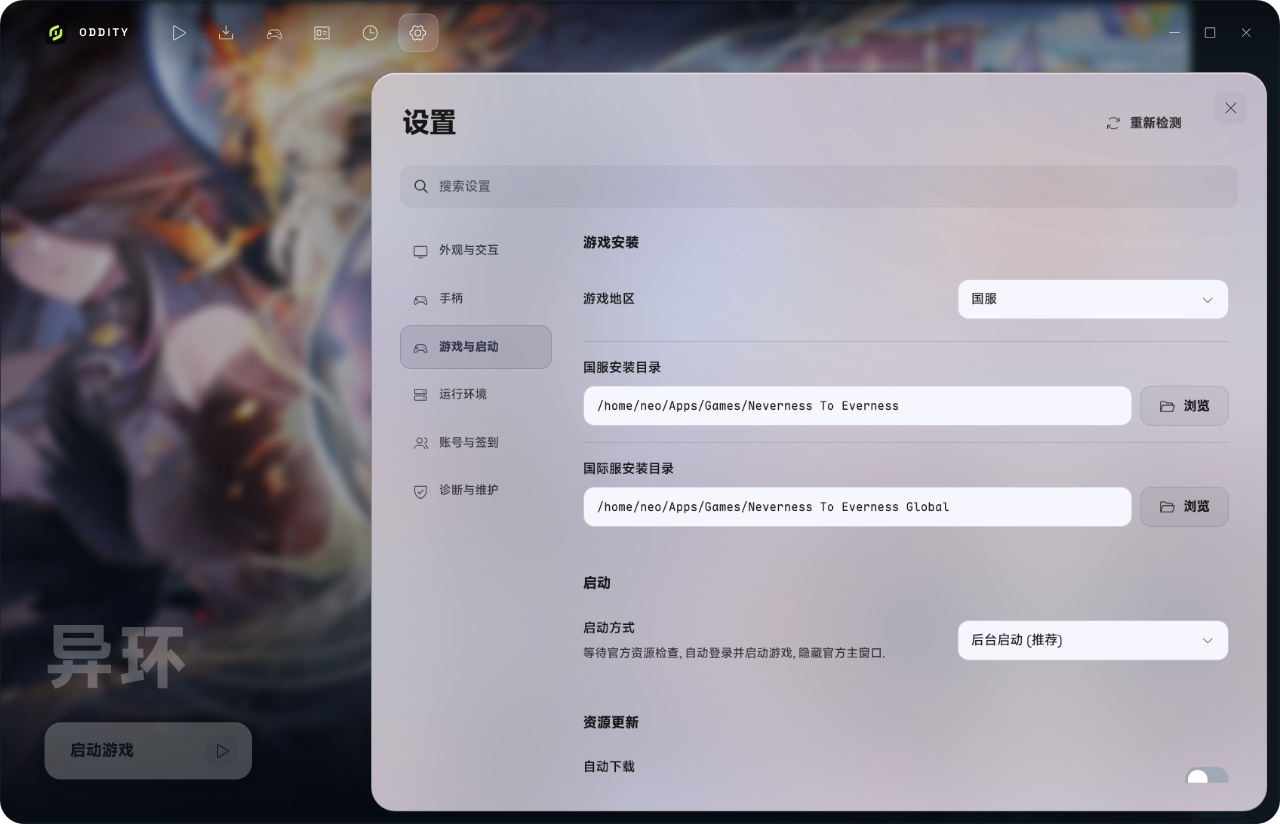
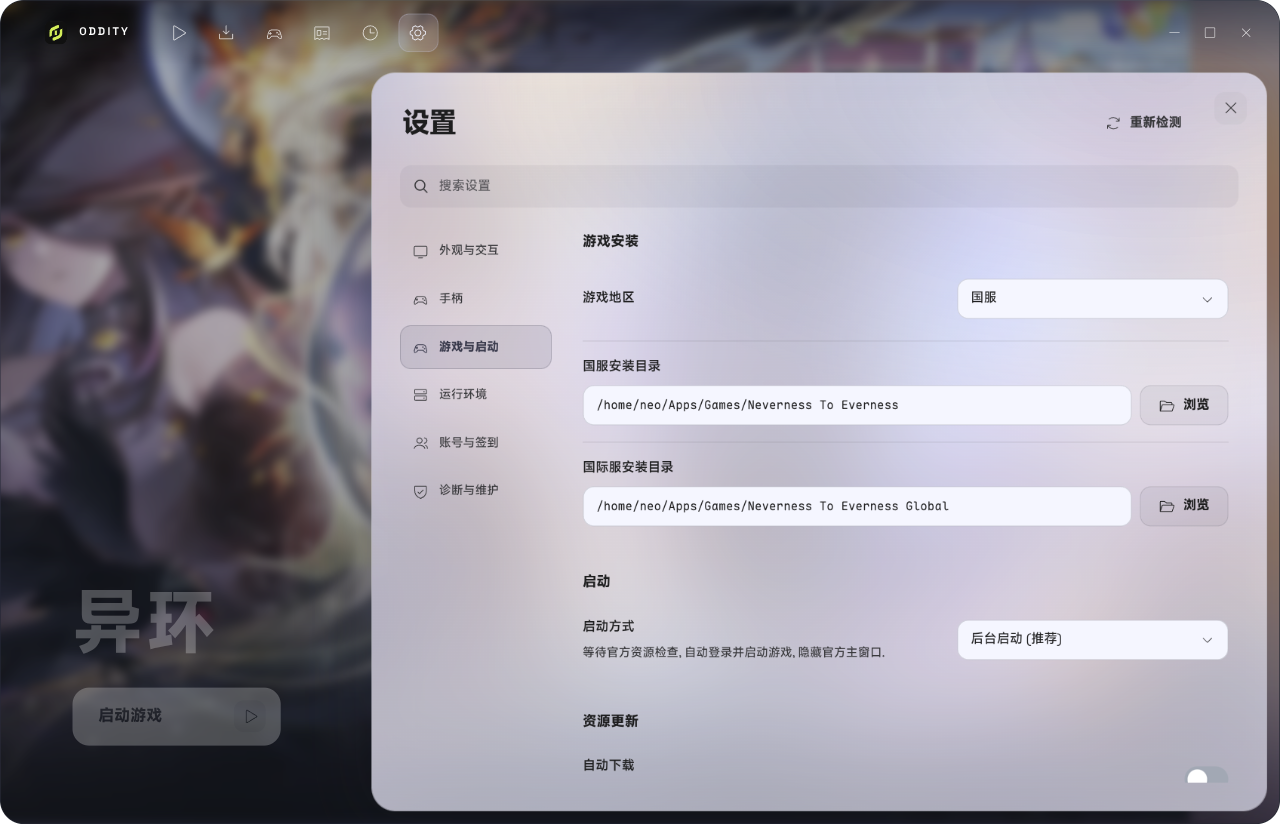
ui: 启动组件外移并让状态提示平滑显隐 (#142)
* ui: 启动组件外移并让状态提示平滑显隐

* fix(ui): 固定状态提示槽位高度

* docs: 重截界面实机截图

六张 README 与文档截图在本机官方客户端环境下按新布局重截, 背景使用官方客户端主视觉, 保持浅色主题, 手机号沿用文档中的示例号码.

---------

diff --git a/launcher/ui/src/pages/HomePage.vue b/launcher/ui/src/pages/HomePage.vue
@@ -23,6 +23,12 @@ const reduced = computed(() => form.reduceMotion || prefersReduced.value);
 const gameName = computed(() =>
   state.bootstrap?.settings.distribution === "global" ? "NTE" : "异环",
 );
+// 状态行始终占位, 避免提示显隐时把标题和启动按钮一起顶动.
+const statusVisible = computed(
+  () =>
+    state.game !== "launching" &&
+    (homeDownloadNotice.value.visible || updateView.value.showHomeStatus),
+);
 
 // 文案切换沿用 GamepadHints 的 Anime.js 编排: 先模糊退出, 再换字。
 const label = computed(() => launchView.value.label);
@@ -165,28 +171,31 @@ function handleMainLaunchClick() {
               </AnimatePresence>
             </div>
           </div>
-          <button
-            class="hero__status"
-            id="home-status"
-            @click="showPage('update')"
-            type="button"
-            :hidden="
-              state.game === 'launching' ||
-              (!homeDownloadNotice.visible && !updateView.showHomeStatus)
-            "
-            :data-state="
-              homeDownloadNotice.visible
-                ? homeDownloadNotice.kind
-                : updateView.homeStatusKind
-            "
+          <div
+            class="hero__status-slot"
+            :class="{ 'is-visible': statusVisible }"
           >
-            <i class="status-dot status-dot--warn"></i>
-            <span id="home-status-text">{{
-              homeDownloadNotice.visible
-                ? homeDownloadNotice.text
-                : updateView.homeStatusText
-            }}</span>
-          </button>
+            <button
+              class="hero__status"
+              id="home-status"
+              @click="showPage('update')"
+              type="button"
+              :tabindex="statusVisible ? undefined : -1"
+              :aria-hidden="!statusVisible || undefined"
+              :data-state="
+                homeDownloadNotice.visible
+                  ? homeDownloadNotice.kind
+                  : updateView.homeStatusKind
+              "
+            >
+              <i class="status-dot status-dot--warn"></i>
+              <span id="home-status-text">{{
+                homeDownloadNotice.visible
+                  ? homeDownloadNotice.text
+                  : updateView.homeStatusText
+              }}</span>
+            </button>
+          </div>
         </motion.div>
       </div>
     </div>

diff --git a/launcher/ui/src/styles/hero.css b/launcher/ui/src/styles/hero.css
@@ -40,9 +40,10 @@
   background: linear-gradient(0deg, rgb(5 10 16 / 65%), transparent 45%);
 }
 .hero__content {
+  --hero-content-shift: clamp(20px, 2.2vw, 32px);
   position: absolute;
   bottom: var(--scene-inset);
-  left: var(--scene-inset);
+  left: calc(var(--scene-inset) + var(--hero-content-shift));
   display: flex;
   flex-direction: column;
   align-items: flex-start;
@@ -128,24 +129,59 @@
   width: 22px;
   height: 22px;
 }
+.hero__status-slot {
+  display: flex;
+  align-items: flex-start;
+  height: calc(16px + 1.55em);
+  padding-top: 16px;
+  font-size: 12px;
+}
+/* 窄面板下最长文案会换行, 预留两行高度, 避免底部内容被顶动. */
+@media (width < 480px) {
+  .hero__status-slot {
+    height: calc(16px + 3.1em);
+  }
+}
 .hero__status {
   display: inline-flex;
   align-items: center;
   gap: 9px;
-  margin-top: 16px;
   max-width: 100%;
   text-align: left;
   font-size: 12px;
   color: rgb(255 255 255 / 88%);
+  opacity: 0;
+  visibility: hidden;
+  transform: translateY(4px);
+  transition:
+    opacity 160ms ease-out,
+    transform 160ms ease-out,
+    visibility 0s linear 160ms;
 }
-.hero__status[hidden] {
-  display: none;
+.hero__status-slot.is-visible .hero__status {
+  opacity: 1;
+  visibility: visible;
+  transform: translateY(0);
+  transition:
+    opacity 160ms ease-out,
+    transform 160ms ease-out,
+    visibility 0s;
 }
 .hero__status[data-state="error"] {
   color: #ffd0c9;
 }
 .hero__status .status-dot {
   background: currentColor;
+}
+@media (prefers-reduced-motion: reduce) {
+  .hero__status,
+  .hero__status-slot.is-visible .hero__status {
+    transition: none;
+  }
+}
+.reduce-motion .hero__status,
+.reduce-motion .hero__status-slot.is-visible .hero__status {
+  transition: none;
 }
 .eyebrow {
   display: flex;

diff --git a/launcher/ui/tests/e2e/update.spec.ts b/launcher/ui/tests/e2e/update.spec.ts
@@ -7,8 +7,10 @@ test("更新摘要、暂停继续与窄面板布局", async ({ page }) => {
   const update = page.locator("#page-update");
   const primary = page.locator("#game-download-primary");
   const budget = update.locator(".disk-budget");
+  const homeStatus = page.locator("#home-status");
   await expect(primary).toHaveText("检查通过");
   await expect(budget).toHaveCount(0);
+  await expect(homeStatus).toHaveCSS("visibility", "hidden");
   await update.getByRole("button", { name: "完整校验", exact: true }).click();
   await expect(primary).toHaveText("更新游戏");
   await expect(update.locator("progress")).toHaveCount(0);
@@ -21,6 +23,9 @@ test("更新摘要、暂停继续与窄面板布局", async ({ page }) => {
   await expect(
     update.getByRole("heading", { name: "下载已暂停" }),
   ).toBeVisible();
+  await expect(homeStatus).toHaveCSS("visibility", "visible");
+  await expect(homeStatus).toHaveCSS("opacity", "1");
+  await expect(homeStatus).toContainText("下载已暂停, 打开更新页继续");
   await expect(primary).toHaveText("继续更新游戏");
   await expect(update.locator("progress")).toHaveCount(1);
   await expect(update.locator("#download-install-root")).toBeEnabled();

diff --git a/launcher/ui/tests/unit/controller.test.ts b/launcher/ui/tests/unit/controller.test.ts
@@ -1132,6 +1132,32 @@ describe("更新检查", () => {
     expect(c.launchView.value.label).toBe("启动游戏");
   });
 
+  it("首页启动提示在固定槽位内显隐", async () => {
+    await boot();
+    const slot = wrapper!.find(".hero__status-slot");
+    backend.downloadHandler({
+      ...backend.downloadStatus,
+      mode: "check",
+      phase: "cancelled",
+    });
+    await nextTick();
+    expect(slot.classes()).toContain("is-visible");
+    expect(wrapper!.find("#home-status").attributes("aria-hidden")).toBe(
+      undefined,
+    );
+    expect(text("home-status-text")).toBe("资源检查已取消, 打开更新页重新检查");
+    backend.downloadHandler({
+      ...backend.downloadStatus,
+      mode: "check",
+      phase: "checking",
+    });
+    await nextTick();
+    expect(slot.classes()).not.toContain("is-visible");
+    expect(wrapper!.find("#home-status").attributes("aria-hidden")).toBe(
+      "true",
+    );
+  });
+
   it("为国际服保存独立目录并展示可暂停的下载任务", async () => {
     const c = await boot();
     c.form.distribution = "global";
